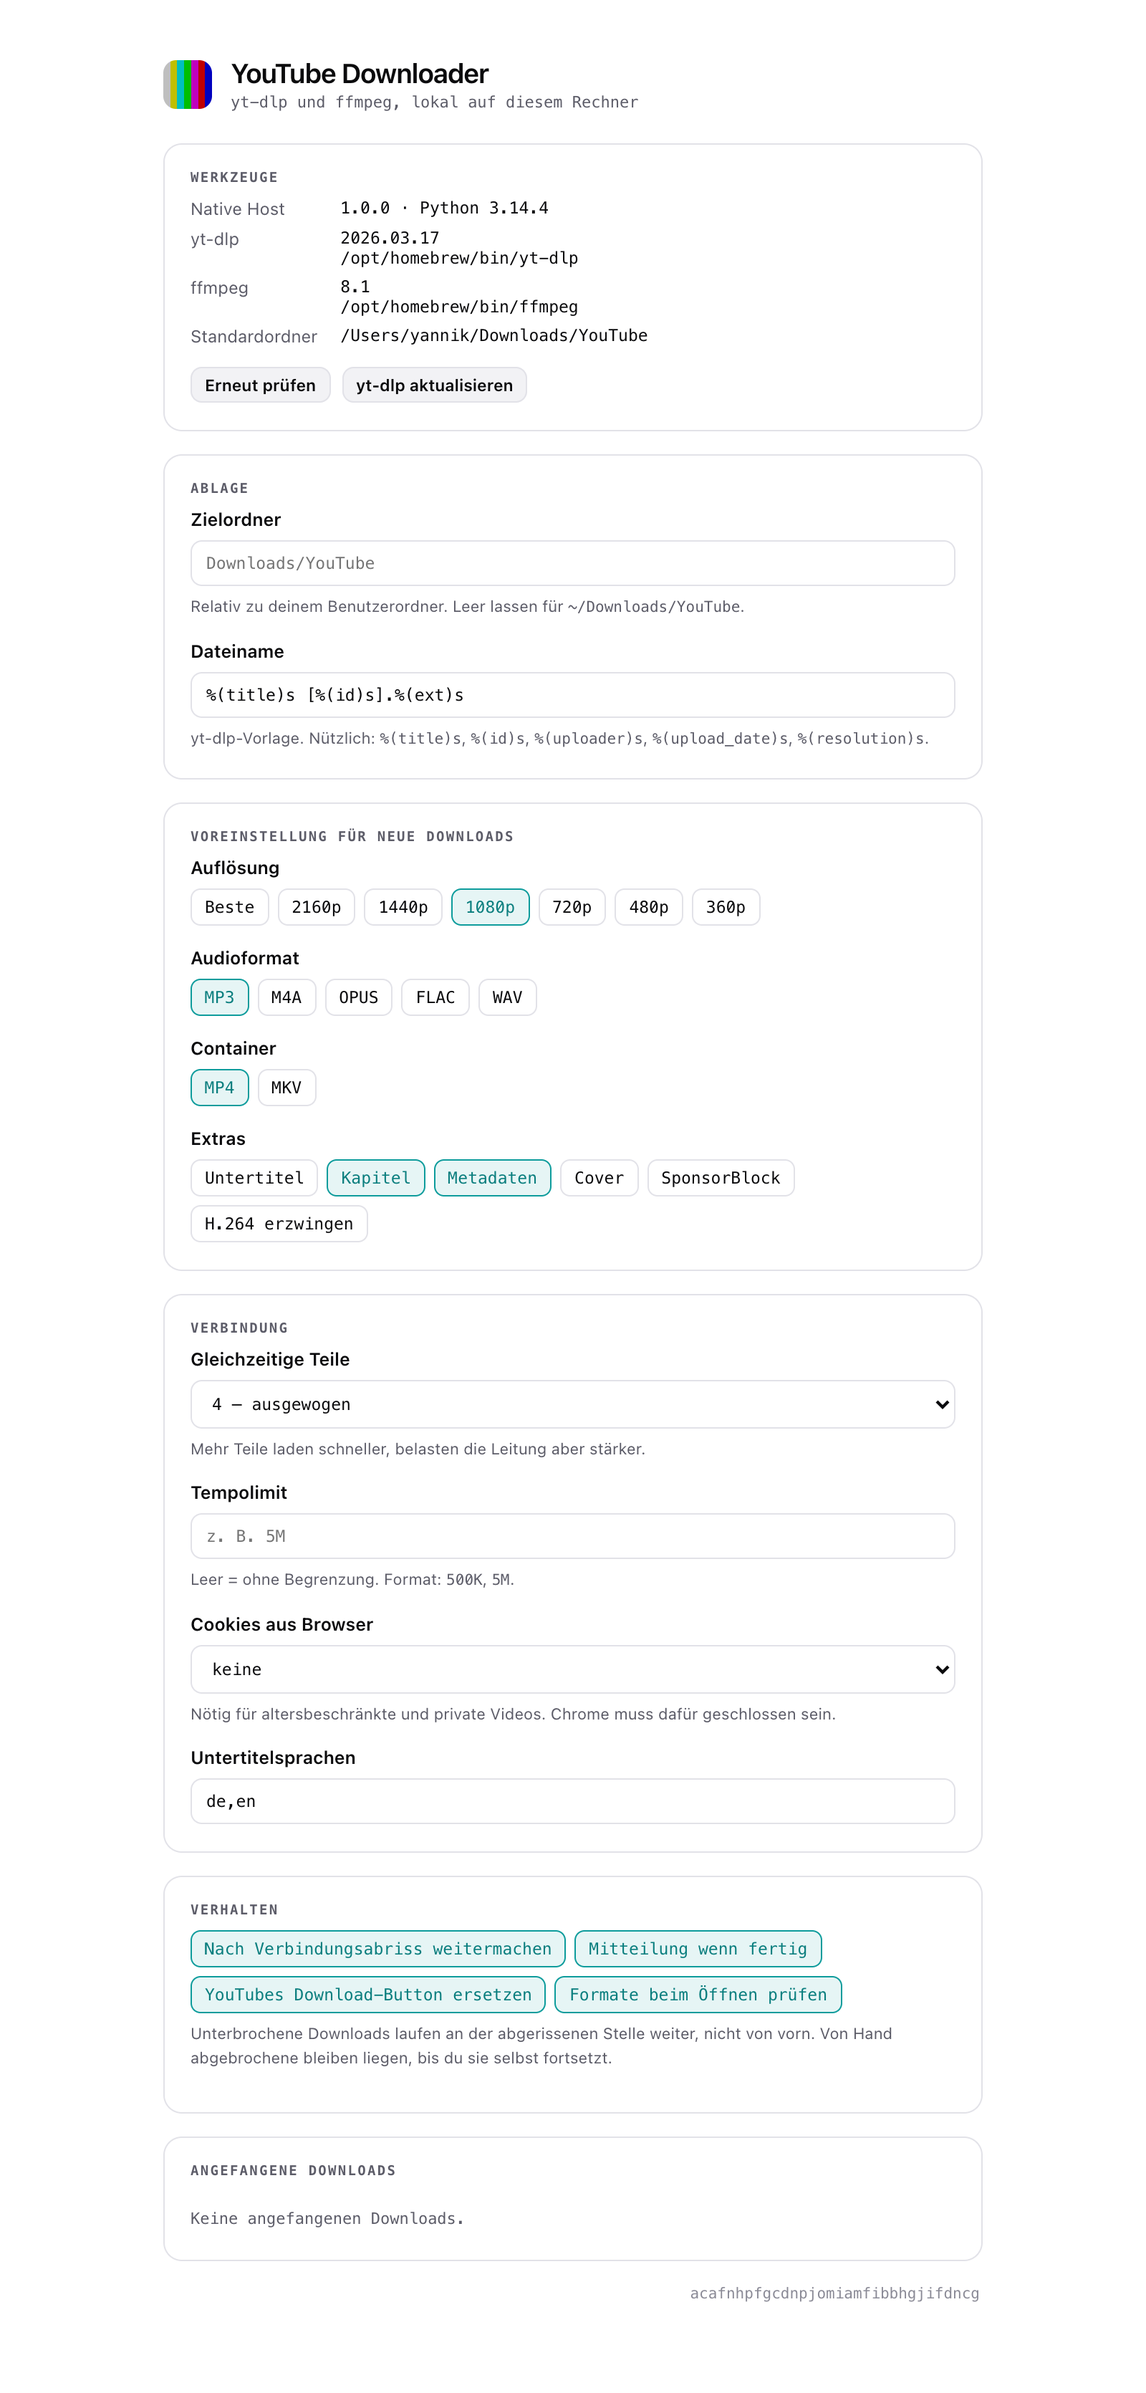
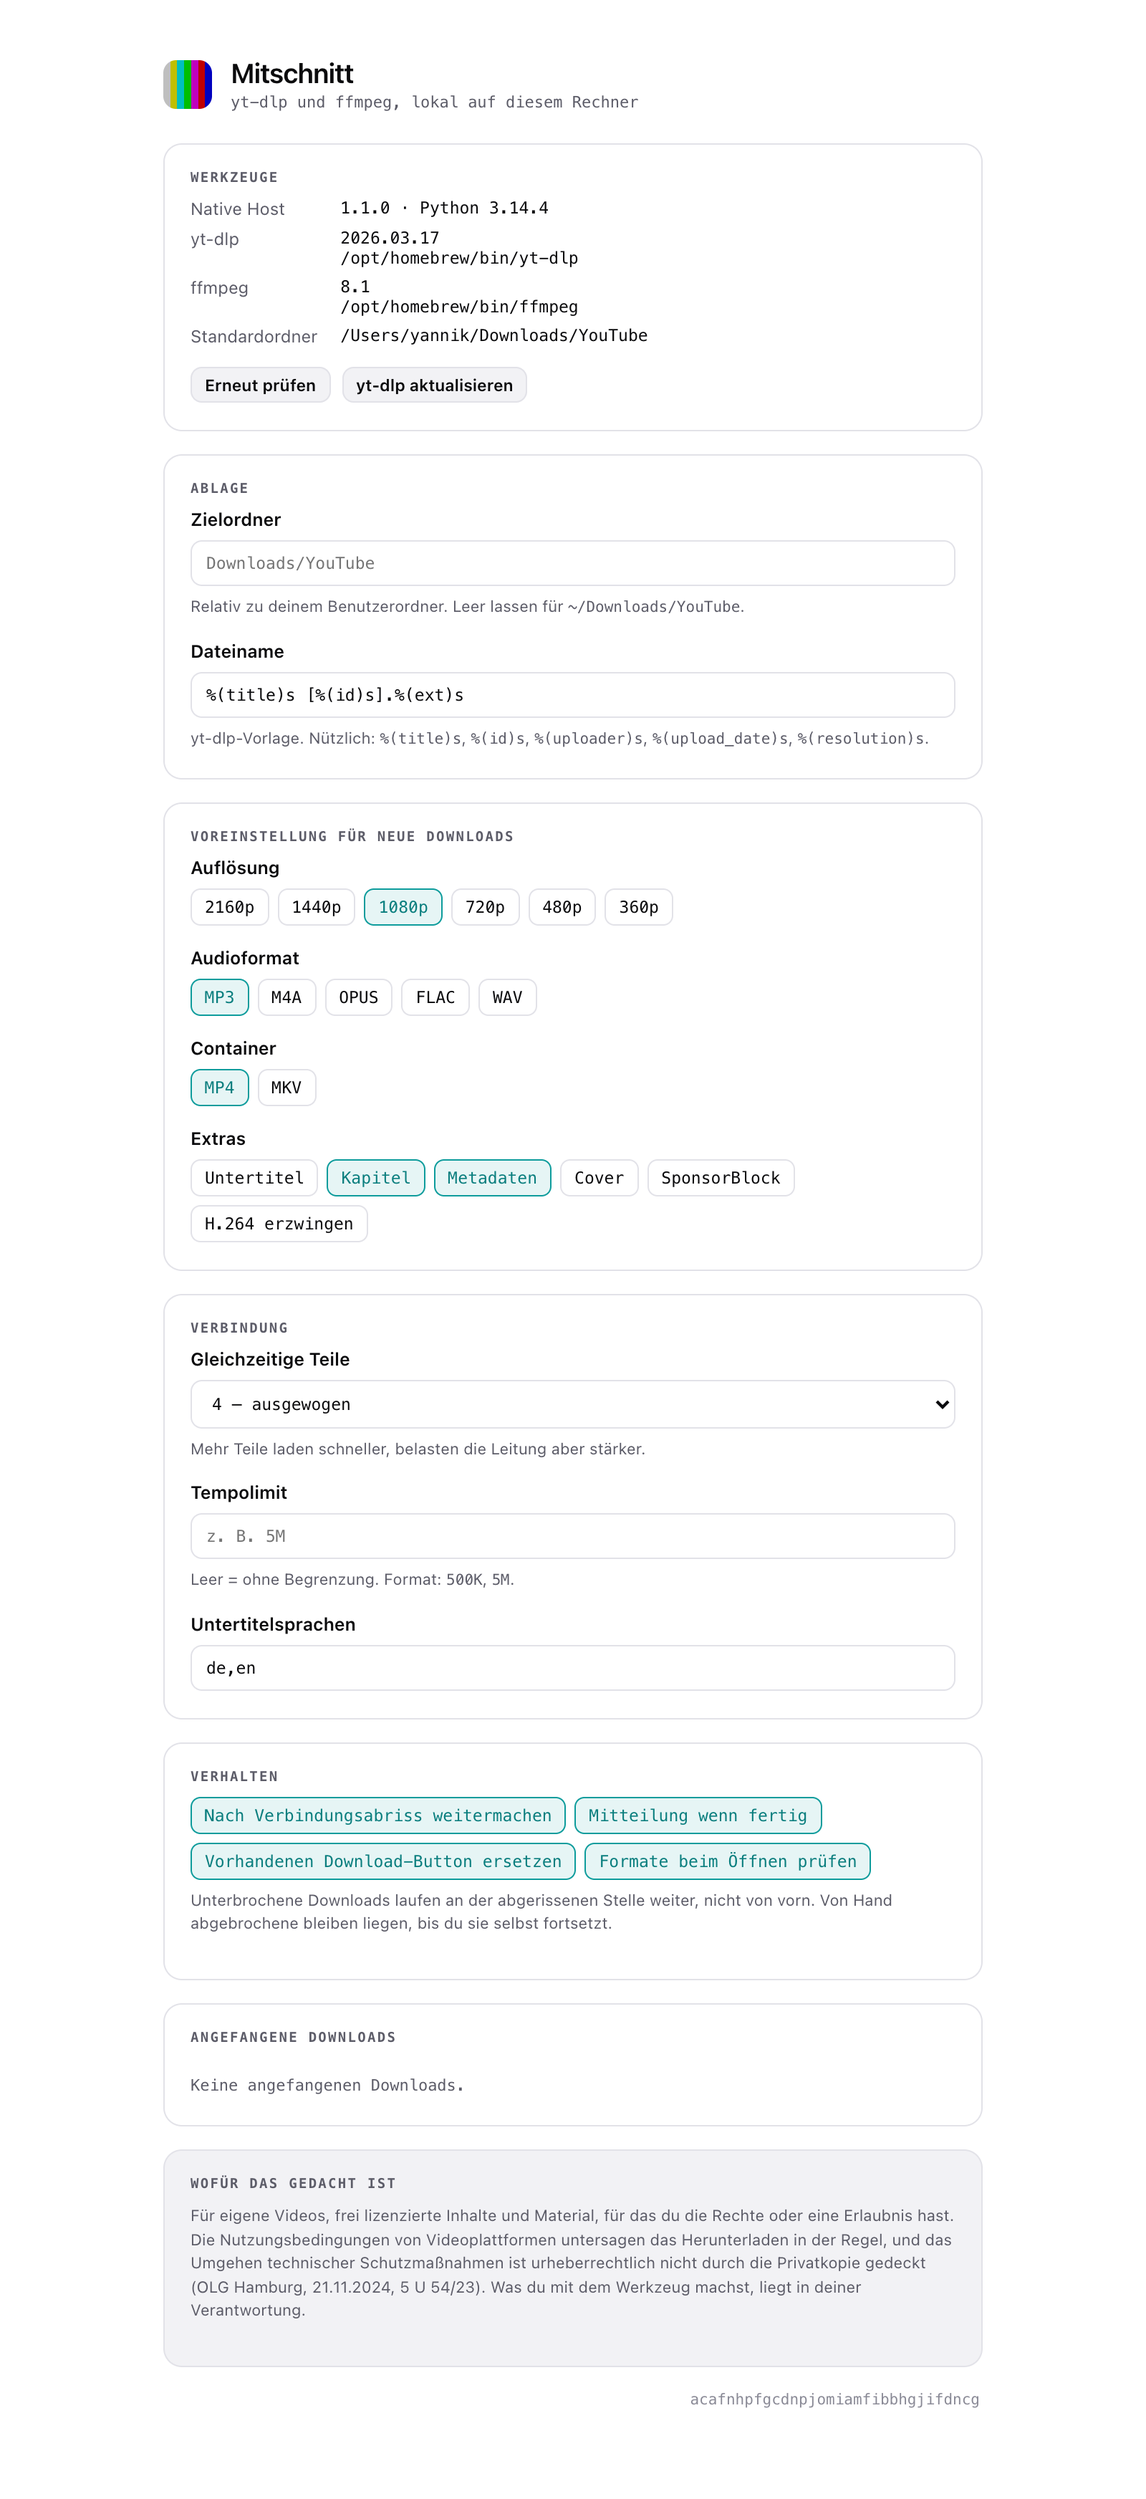
Umbenennung in Mitschnitt, Cookie-Funktion entfernt, Rechtshinweis ergänzt
Nach Prüfung der Rechtslage entschärft:

- Der Produktname enthält keine fremde Marke mehr. Die Nennung der
  Plattform bleibt dort, wo sie beschreibend nötig ist.
- Die Option "Cookies aus Browser" ist ersatzlos entfallen. Sie diente
  dem Zugriff auf altersbeschränkte, private und Mitglieder-Inhalte und
  damit dem Umgehen einer Zugangskontrolle — das ist etwas anderes als
  ein Download offen zugänglicher Videos.
- Rechtshinweis in README, Anleitung und Einstellungen, mit Verweis auf
  OLG Hamburg 5 U 54/23 und die Grenze der Privatkopieschranke.
- Log- und Programmordner heißen entsprechend um.

Claude-Session: https://claude.ai/code/session_018GCTcgTLZXSnDhqi3guQyr

diff --git a/extension/options/options.js b/extension/options/options.js
@@ -1,11 +1,7 @@
 const el = (id) => document.getElementById(id);
 
-const HEIGHTS = [
-  { value: 0, label: 'Beste' }, { value: 2160, label: '2160p' },
-  { value: 1440, label: '1440p' }, { value: 1080, label: '1080p' },
-  { value: 720, label: '720p' }, { value: 480, label: '480p' },
-  { value: 360, label: '360p' },
-];
+const HEIGHTS = [2160, 1440, 1080, 720, 480, 360]
+  .map((value) => ({ value, label: `${value}p` }));
 const AUDIO = ['mp3', 'm4a', 'opus', 'flac', 'wav'];
 const CONTAINERS = ['mp4', 'mkv'];
 
@@ -21,7 +17,7 @@ const EXTRAS = [
 const BEHAVIOUR = [
   { key: 'autoResume', label: 'Nach Verbindungsabriss weitermachen' },
   { key: 'notify', label: 'Mitteilung wenn fertig' },
-  { key: 'replaceNativeButton', label: 'YouTubes Download-Button ersetzen' },
+  { key: 'replaceNativeButton', label: 'Vorhandenen Download-Button ersetzen' },
   { key: 'autoProbe', label: 'Formate beim Öffnen prüfen' },
 ];
 
@@ -96,7 +92,7 @@ function renderTools(info, error) {
     list.innerHTML = `<dt>Native Host</dt>
       <dd class="mono" data-state="missing">nicht erreichbar</dd>`;
     note.dataset.tone = 'error';
-    note.textContent = error || 'Führe install.sh im Projektordner aus.';
+    note.textContent = error || 'Starte die Einrichtung im Programmordner erneut.';
     return;
   }
 
@@ -119,8 +115,8 @@ function renderTools(info, error) {
 
   if (!info.ready) {
     note.dataset.tone = 'error';
-    note.textContent = 'Es fehlt ein Werkzeug. Installiere es mit: '
-      + 'brew install yt-dlp ffmpeg';
+    note.textContent = 'Es fehlt ein Werkzeug. Starte die Einrichtung im '
+      + 'Programmordner erneut — sie lädt es nach.';
   } else {
     note.dataset.tone = '';
     note.textContent = '';
@@ -183,11 +179,6 @@ async function init() {
   el('concurrentFragments').value = String(settings.concurrentFragments ?? 4);
   el('concurrentFragments').addEventListener('change', (event) => {
     save({ concurrentFragments: Number(event.target.value) });
-  });
-
-  el('cookiesFromBrowser').value = settings.cookiesFromBrowser || '';
-  el('cookiesFromBrowser').addEventListener('change', (event) => {
-    save({ cookiesFromBrowser: event.target.value });
   });
 
   renderChoice(el('height-chips'), HEIGHTS, settings.height,

diff --git a/extension/options/options.html b/extension/options/options.html
@@ -2,7 +2,7 @@
 <html lang="de">
 <head>
   <meta charset="utf-8">
-  <title>YouTube Downloader — Einstellungen</title>
+  <title>Mitschnitt — Einstellungen</title>
   <link rel="stylesheet" href="../lib/ui.css">
   <link rel="stylesheet" href="options.css">
 </head>
@@ -12,7 +12,7 @@
   <header class="masthead">
     <span class="bars brandbars" aria-hidden="true"><span class="strip"></span></span>
     <div>
-      <h1>YouTube Downloader</h1>
+      <h1>Mitschnitt</h1>
       <p class="sub mono">yt-dlp und ffmpeg, lokal auf diesem Rechner</p>
     </div>
   </header>
@@ -95,20 +95,6 @@
     </label>
 
     <label class="field">
-      <span class="label">Cookies aus Browser</span>
-      <select id="cookiesFromBrowser">
-        <option value="">keine</option>
-        <option value="chrome">Chrome</option>
-        <option value="brave">Brave</option>
-        <option value="edge">Edge</option>
-        <option value="firefox">Firefox</option>
-        <option value="safari">Safari</option>
-      </select>
-      <span class="help">Nötig für altersbeschränkte und private Videos. Chrome muss
-        dafür geschlossen sein.</span>
-    </label>
-
-    <label class="field">
       <span class="label">Untertitelsprachen</span>
       <input type="text" id="subLangs" placeholder="de,en" spellcheck="false">
     </label>
@@ -127,6 +113,16 @@
     <ul class="partials" id="partials"></ul>
     <p class="note mono" id="partials-note">wird geladen …</p>
     <button class="btn ghost small" id="discard-partials" type="button">Alle verwerfen</button>
+  </section>
+
+  <section class="card notice">
+    <p class="legend">Wofür das gedacht ist</p>
+    <p class="help">Für eigene Videos, frei lizenzierte Inhalte und Material,
+      für das du die Rechte oder eine Erlaubnis hast. Die Nutzungsbedingungen
+      von Videoplattformen untersagen das Herunterladen in der Regel, und das
+      Umgehen technischer Schutzmaßnahmen ist urheberrechtlich nicht durch die
+      Privatkopie gedeckt (OLG Hamburg, 21.11.2024, 5 U 54/23). Was du mit dem
+      Werkzeug machst, liegt in deiner Verantwortung.</p>
   </section>
 
   <footer class="foot">

diff --git a/extension/background.js b/extension/background.js
@@ -24,7 +24,6 @@ const DEFAULTS = {
   metadata: true,
   thumbnail: false,
   sponsorblock: false,
-  cookiesFromBrowser: '',
   concurrentFragments: 4,
   rateLimit: '',
   filenameTemplate: '%(title)s [%(id)s].%(ext)s',
@@ -85,13 +84,13 @@ function connect() {
 function humanizeHostError(raw) {
   const text = String(raw || '');
   if (/not found|Specified native messaging host not found/i.test(text)) {
-    return 'Der Native Host ist nicht registriert. Führe install.sh aus.';
+    return 'Der Native Host ist nicht registriert. Starte die Einrichtung erneut.';
   }
   if (/forbidden|not allowed/i.test(text)) {
-    return 'Der Native Host erlaubt diese Extension-ID nicht. Führe install.sh erneut aus.';
+    return 'Der Native Host erlaubt diese Extension-ID nicht. Starte die Einrichtung erneut.';
   }
   if (/Native host has exited|exited/i.test(text)) {
-    return 'Der Native Host wurde beendet. Details: ~/Library/Logs/YouTubeDownloader/host.log';
+    return 'Der Native Host wurde beendet. Details: ~/Library/Logs/Mitschnitt/host.log';
   }
   return text;
 }

diff --git a/extension/popup/popup.html b/extension/popup/popup.html
@@ -2,7 +2,7 @@
 <html lang="de">
 <head>
   <meta charset="utf-8">
-  <title>YouTube Downloader</title>
+  <title>Mitschnitt</title>
   <link rel="stylesheet" href="../lib/ui.css">
   <link rel="stylesheet" href="popup.css">
 </head>
@@ -12,7 +12,7 @@
       <span class="bars brandbars" aria-hidden="true">
         <span class="strip"></span>
       </span>
-      <h1>YouTube Downloader</h1>
+      <h1>Mitschnitt</h1>
     </div>
     <button class="btn ghost small" id="open-options" type="button">Einstellungen</button>
   </header>

diff --git a/extension/options/options.css b/extension/options/options.css
@@ -75,3 +75,7 @@
   font-size: 10.5px; color: var(--muted); padding: 0 2px;
 }
 .faint { color: var(--faint); }
+
+/* Der rechtliche Hinweis soll lesbar sein, aber nicht schreien. */
+.card.notice { border-color: var(--line); background: var(--surface); }
+.card.notice .help { margin-top: 0; }

diff --git a/native-host/ytdl_host.py b/native-host/ytdl_host.py
@@ -1,13 +1,13 @@
 #!/usr/bin/env python3
 """
-Native Messaging Host für die YouTube-Downloader-Extension.
+Native Messaging Host für die Mitschnitt-Erweiterung.
 
 Spricht Chromes Native-Messaging-Protokoll über stdin/stdout
 (4 Byte Länge little-endian + UTF-8-JSON) und führt lokal yt-dlp
 und ffmpeg aus.
 
 stdout ist ausschließlich dem Protokoll vorbehalten — jede Diagnose
-geht ins Logfile unter ~/Library/Logs/YouTubeDownloader/host.log.
+geht ins Logfile unter ~/Library/Logs/Mitschnitt/host.log.
 """
 
 import json
@@ -46,10 +46,10 @@ SEP = "\x1f"
 def _log_dir():
     if IS_WINDOWS:
         base = os.environ.get("LOCALAPPDATA") or str(Path.home())
-        return Path(base) / "YouTubeDownloader" / "Logs"
+        return Path(base) / "Mitschnitt" / "Logs"
     if IS_MAC:
-        return Path.home() / "Library" / "Logs" / "YouTubeDownloader"
-    return Path.home() / ".local" / "state" / "youtube-downloader"
+        return Path.home() / "Library" / "Logs" / "Mitschnitt"
+    return Path.home() / ".local" / "state" / "mitschnitt"
 
 
 LOG_DIR = _log_dir()
@@ -121,7 +121,7 @@ BUNDLED_DIR = HOST_DIR / "bin"
 if IS_WINDOWS:
     SEARCH_PATHS = [
         str(BUNDLED_DIR),
-        str(Path(os.environ.get("LOCALAPPDATA", Path.home())) / "YouTubeDownloader" / "bin"),
+        str(Path(os.environ.get("LOCALAPPDATA", Path.home())) / "Mitschnitt" / "bin"),
         str(Path(os.environ.get("LOCALAPPDATA", Path.home())) / "Microsoft" / "WinGet" / "Links"),
         str(Path(os.environ.get("ProgramFiles", "C:\\Program Files")) / "ffmpeg" / "bin"),
         "C:\\ffmpeg\\bin",
@@ -190,8 +190,6 @@ URL_ALLOWED = re.compile(
 HEIGHTS = {0, 144, 240, 360, 480, 720, 1080, 1440, 2160, 4320}
 AUDIO_FORMATS = {"mp3", "m4a", "opus", "flac", "wav", "vorbis", "aac", "best"}
 CONTAINERS = {"mp4", "mkv", "webm"}
-BROWSERS = {"", "chrome", "brave", "chromium", "edge", "firefox", "safari",
-            "opera", "vivaldi"}
 SUBLANGS_RE = re.compile(r"^[A-Za-z0-9,\-\.\*]{1,120}$")
 RATE_RE = re.compile(r"^\d+(\.\d+)?[KMG]?$")
 
@@ -378,10 +376,6 @@ def build_command(url, opts, out_dir):
     if rate and RATE_RE.match(rate):
         cmd += ["--limit-rate", rate]
 
-    browser = str(opts.get("cookiesFromBrowser") or "")
-    if browser and browser in BROWSERS:
-        cmd += ["--cookies-from-browser", browser]
-
     if opts.get("mode") == "audio":
         audio_format = opts.get("audioFormat", "mp3")
         if audio_format not in AUDIO_FORMATS:
@@ -423,9 +417,11 @@ def build_command(url, opts, out_dir):
 # ------------------------------------------------------------ Fehlertexte ---
 
 ERROR_HINTS = [
-    (r"Sign in to confirm (your age|you'?re not a bot)",
-     "YouTube verlangt eine Anmeldung. Aktiviere in den Einstellungen "
-     "„Cookies aus Chrome verwenden“."),
+    (r"Sign in to confirm your age",
+     "Das Video ist altersbeschränkt und lässt sich ohne Anmeldung nicht "
+     "laden."),
+    (r"Sign in to confirm you'?re not a bot",
+     "YouTube verlangt gerade eine Anmeldung. Versuche es später erneut."),
     (r"This video is private",
      "Das Video ist privat."),
     (r"Video unavailable",
@@ -445,9 +441,6 @@ ERROR_HINTS = [
      "Kein Schreibrecht im Zielordner."),
     (r"No space left on device",
      "Auf dem Laufwerk ist kein Platz mehr."),
-    (r"could not (find|open) .*cookies|Could not copy Chrome cookie database",
-     "Chrome-Cookies konnten nicht gelesen werden. Schließe Chrome oder "
-     "deaktiviere die Cookie-Option."),
 ]
 
 

diff --git a/README.md b/README.md
@@ -1,8 +1,8 @@
 <div align="center">
 
-# YouTube Downloader
+# Mitschnitt
 
-**Ersetzt den Download-Button unter jedem YouTube-Video durch einen eigenen.**
+**Ersetzt den Download-Button unter Videos durch einen eigenen.**
 
 Der Download läuft auf deinem Rechner — über [yt-dlp](https://github.com/yt-dlp/yt-dlp)
 und [FFmpeg](https://ffmpeg.org). Kein fremder Server, keine Wasserzeichen,
@@ -10,13 +10,25 @@ keine Wartezeit, keine Auflösungsgrenze.
 
 <br>
 
-### [⬇ Für macOS herunterladen](https://github.com/yannik080/youtube-downloader/releases/latest/download/YouTube-Downloader-macOS.zip) &nbsp;·&nbsp; [⬇ Für Windows herunterladen](https://github.com/yannik080/youtube-downloader/releases/latest/download/YouTube-Downloader-Windows.zip)
+### [⬇ Für macOS herunterladen](https://github.com/yannik080/mitschnitt/releases/latest/download/Mitschnitt-macOS.zip) &nbsp;·&nbsp; [⬇ Für Windows herunterladen](https://github.com/yannik080/mitschnitt/releases/latest/download/Mitschnitt-Windows.zip)
 
 <br>
 
-<img src="docs/panel-in-youtube.png" width="820" alt="Das Download-Panel geöffnet auf einer YouTube-Videoseite">
+<img src="docs/panel-in-youtube.png" width="820" alt="Das Download-Panel geöffnet auf einer Videoseite">
 
 </div>
+
+<br>
+
+> [!IMPORTANT]
+> **Wofür das gedacht ist.** Für eigene Videos, frei lizenzierte Inhalte und
+> Material, für das du die Rechte oder eine Erlaubnis hast.
+>
+> Die Nutzungsbedingungen von Videoplattformen untersagen das Herunterladen in
+> aller Regel. Nach der Rechtsprechung des OLG Hamburg (Urteil vom 21.11.2024,
+> Az. 5 U 54/23, seit Oktober 2025 rechtskräftig) ist die Umgehung technischer
+> Schutzmaßnahmen zudem **nicht** durch die Privatkopieschranke des § 53 UrhG
+> gedeckt. Was du mit diesem Werkzeug machst, liegt in deiner Verantwortung.
 
 <br>
 
@@ -67,8 +79,8 @@ Entwicklermodus. Drei Klicks:
 3. Links oben auf **Entpackte Erweiterung laden** klicken und den Ordner
    **`extension`** aus dem entpackten Verzeichnis auswählen
 
-Fertig. Eine YouTube-Videoseite neu laden — der Download-Button unter dem
-Video gehört ab jetzt dir.
+Fertig. Eine Videoseite neu laden — der Download-Button unter dem Video
+gehört ab jetzt dir.
 
 > **Den entpackten Ordner nicht verschieben oder löschen.** Chrome und die
 > Einrichtung merken sich den Ort. Zieht er doch um, einfach die Einrichtung
@@ -85,8 +97,8 @@ ausgegrauten Einträgen zeigt das Panel, was für dieses Video vorliegt.
 
 **Die Größenangabe stimmt.** Sie ist keine Schätzung: yt-dlp wird gefragt,
 welche Formate es nähme, und deren Größen werden addiert. Im Test weicht die
-Ankündigung um 0,3 % von der fertigen Datei ab. Keine Kleinigkeit — bei 1080p
-bietet YouTube dieselbe Auflösung in drei Codecs an, die um den Faktor zwei
+Ankündigung um 0,3 % von der fertigen Datei ab. Keine Kleinigkeit — dieselbe
+Auflösung wird oft in drei Codecs angeboten, die um den Faktor zwei
 auseinanderliegen.
 
 **Audio getrennt.** MP3, M4A, Opus, FLAC oder WAV, mit Cover und Metadaten.
@@ -117,7 +129,7 @@ mit **Fortsetzen** und **Verwerfen**.
 <div align="center">
 <img src="docs/popup.png" width="320" alt="Das Popup in der Symbolleiste">
 &nbsp;&nbsp;
-<img src="docs/button.png" width="400" alt="Der Button in YouTubes Leiste">
+<img src="docs/button.png" width="400" alt="Der Button in der Leiste unter dem Video">
 </div>
 
 <br>
@@ -130,15 +142,15 @@ Klick auf das Symbol in der Symbolleiste — dort steht, was fehlt.
 |---|---|
 | Popup sagt „Nicht bereit" | Einrichtung noch einmal starten. Ordner verschoben? |
 | Kein Button unter dem Video | Seite neu laden (⌘R / Strg+R) |
-| „Sign in to confirm your age" | Einstellungen → *Cookies aus Browser* → Chrome. Chrome muss dabei geschlossen sein |
 | „yt-dlp ist zu alt" | Einstellungen → *yt-dlp aktualisieren* |
 | Download bricht ständig ab | Einstellungen → *Gleichzeitige Teile* auf 1 |
+| Altersbeschränktes Video | Wird nicht unterstützt |
 
 Hilft gar nichts, steht die Antwort meist im Log:
 
 ```
-macOS     ~/Library/Logs/YouTubeDownloader/host.log
-Windows   %LOCALAPPDATA%\YouTubeDownloader\Logs\host.log
+macOS     ~/Library/Logs/Mitschnitt/host.log
+Windows   %LOCALAPPDATA%\Mitschnitt\Logs\host.log
 ```
 
 <br>
@@ -156,8 +168,8 @@ kleinen Vermittler, den Chrome bei Bedarf selbst startet:
 └─────────────┘                      └──────────────┘              └────────┘
 ```
 
-Genau diesen Vermittler meldet die Einrichtung bei Chrome an. Er nimmt nur
-YouTube-Adressen entgegen und schreibt nur innerhalb deines Benutzerordners.
+Genau diesen Vermittler meldet die Einrichtung bei Chrome an. Er schreibt nur
+innerhalb deines Benutzerordners und schickt nichts nach außen.
 
 <details>
 <summary><b>Für Entwickler: Aufbau, Tests, Fallstricke</b></summary>
@@ -200,9 +212,9 @@ Datei Bild und Ton enthält — und dass die angekündigte Größe stimmt.
 - Unter Windows schreibt stdout `\n` als `\r\n` und zerstört damit den
   Längenkopf des Protokolls — `msvcrt.setmode(..., O_BINARY)` ist Pflicht.
 - Der Button liest Höhe, Rundung, Farbe und Schrift zur Laufzeit von einem
-  echten YouTube-Button ab. Abgeschriebene Zahlen veralten mit dem nächsten
-  Umbau. Seine Breite ist eingefroren, sonst springt die ganze Leiste, sobald
-  aus „Herunterladen" ein Prozentwert wird.
+  echten Nachbarbutton ab. Abgeschriebene Zahlen veralten mit dem nächsten
+  Umbau der Seite. Seine Breite ist eingefroren, sonst springt die ganze
+  Leiste, sobald aus „Herunterladen" ein Prozentwert wird.
 
 </details>
 
@@ -213,7 +225,3 @@ Datei Bild und Ton enthält — und dass die angekündigte Größe stimmt.
 [MIT](LICENSE) für diesen Code. yt-dlp (Unlicense) und FFmpeg (LGPL/GPL)
 werden **nicht mitgeliefert**, sondern bei der Einrichtung von den
 Projektseiten geholt und als eigenständige Programme aufgerufen.
-
-Gedacht für eigene Videos, freie Inhalte und Material, für das du die Rechte
-hast. YouTubes Nutzungsbedingungen untersagen das Herunterladen ohne
-Erlaubnis — was du damit machst, liegt bei dir.
